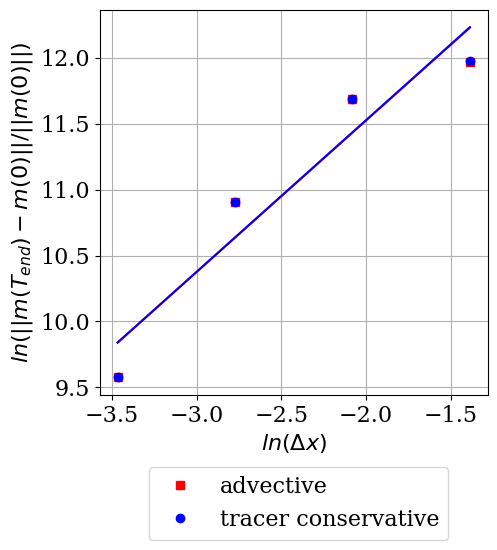
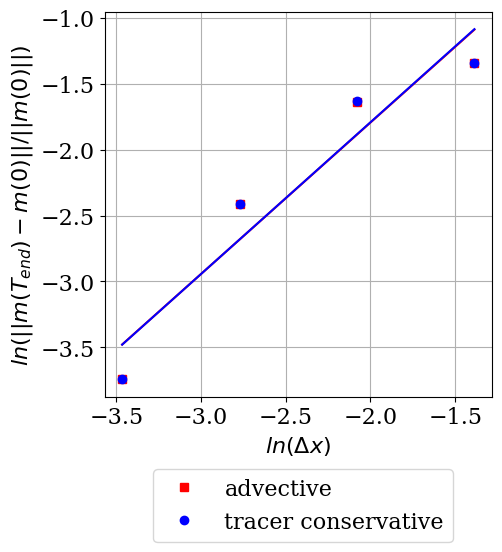
normalised m sse by the initial m0 value

diff --git a/paper_test_suite/NL_sphere/plot_NL_sphere_error_comps.py b/paper_test_suite/NL_sphere/plot_NL_sphere_error_comps.py
@@ -10,9 +10,9 @@ from tomplot import (set_tomplot_style, plot_convergence,
                      tomplot_legend_fig)
 import numpy as np
 
-order = 0
+order = 1
 configuration = 'convergence'
-quantity = 'tracer_density' # tracer_density or m_X
+quantity = 'm_X' # tracer_density or m_X
 
 # Tracer density will be the total and m_X is the L2 of stead state error
 
@@ -30,7 +30,7 @@ advective = []
 # Spatial refinement levels (cells_per_edge = C48 and powers of 2 thereof)
 if configuration == 'convergence':
     if order == 1:
-        ncells_per_edge = [4,8,16,24,48]
+        ncells_per_edge = [4,8,16,24,32,48]
     else:
         ncells_per_edge = [4,8,16,32]
 else:
@@ -57,7 +57,12 @@ for cell_no in ncells_per_edge:
     elif quantity == 'm_X':
         m_err = nc.groups['m_X_error']
         m_err_l2 = m_err.variables['l2'][:]
-        conservative.append(np.abs(m_err_l2[-1]))
+        # Normalise steady state error by initial value
+        # of m_X
+        mX = nc.groups['m_X']
+        mX0 = mX.variables['l2'][0]
+        print(mX0)
+        conservative.append(np.abs(m_err_l2[-1])/mX0)
         print(np.log(np.abs(m_err_l2[-1])))
     else:
         raise ValueError('Not correct inputs')
@@ -83,7 +88,10 @@ for cell_no in ncells_per_edge:
     elif quantity == 'm_X':
         m_err = nc.groups['m_X_error']
         m_err_l2 = m_err.variables['l2'][:]
-        advective.append(np.abs(m_err_l2[-1]))
+        mX = nc.groups['m_X']
+        mX0 = mX.variables['l2'][0]
+        print(mX0)
+        advective.append(np.abs(m_err_l2[-1])/mX0)
         print(np.log(np.abs(m_err_l2[-1])))
     else:
         raise ValueError('Not correct inputs')

diff --git a/paper_test_suite/NL_slice/plot_NL_slice_comparison.py b/paper_test_suite/NL_slice/plot_NL_slice_comparison.py
@@ -11,7 +11,7 @@ from tomplot import (set_tomplot_style, plot_convergence,
 import numpy as np
 from matplotlib.ticker import ScalarFormatter, NullLocator
 
-order = 1
+order = 0
 configuration = 'convergence'
 quantity = 'm_X' # tracer_density or m_X
 
@@ -66,7 +66,9 @@ for dxz in dxzs:
     elif quantity == 'm_X':
         m_err = nc.groups['m_X_error']
         m_err_l2 = m_err.variables['l2'][:]
-        conservative.append(np.abs(m_err_l2[-1]))
+        mX = nc.groups['m_X']
+        mX0 = mX.variables['l2'][0]
+        conservative.append(np.abs(m_err_l2[-1])/mX0)
     else:
         raise ValueError('Not correct inputs')
 
@@ -90,7 +92,11 @@ for dxz in dxzs:
     elif quantity == 'm_X':
         m_err = nc.groups['m_X_error']
         m_err_l2 = m_err.variables['l2'][:]
-        advective.append(np.abs(m_err_l2[-1]))
+        mX = nc.groups['m_X']
+        mX0 = mX.variables['l2'][0]
+        print(mX0)
+        advective.append(np.abs(m_err_l2[-1])/mX0)
+        print(np.log(np.abs(m_err_l2[-1])))
     else:
         raise ValueError('Not correct inputs')
     
